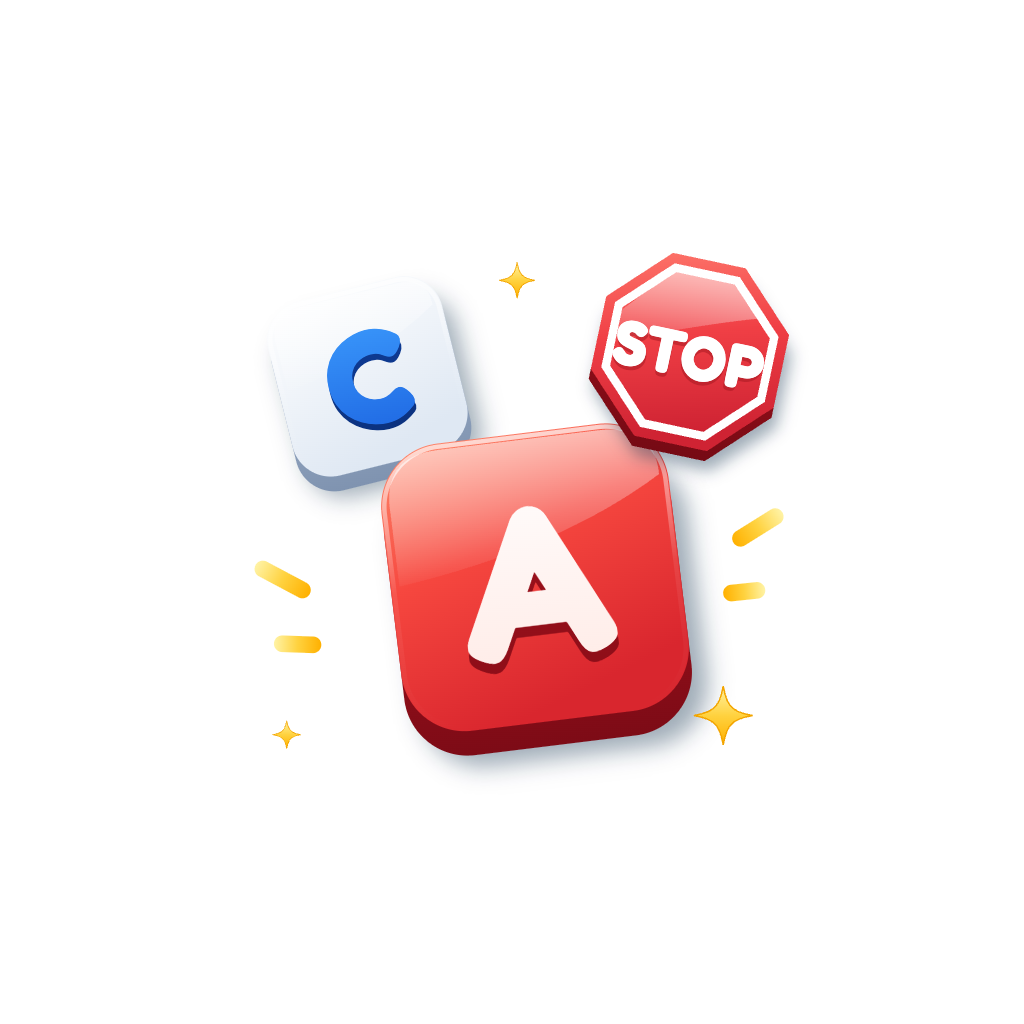
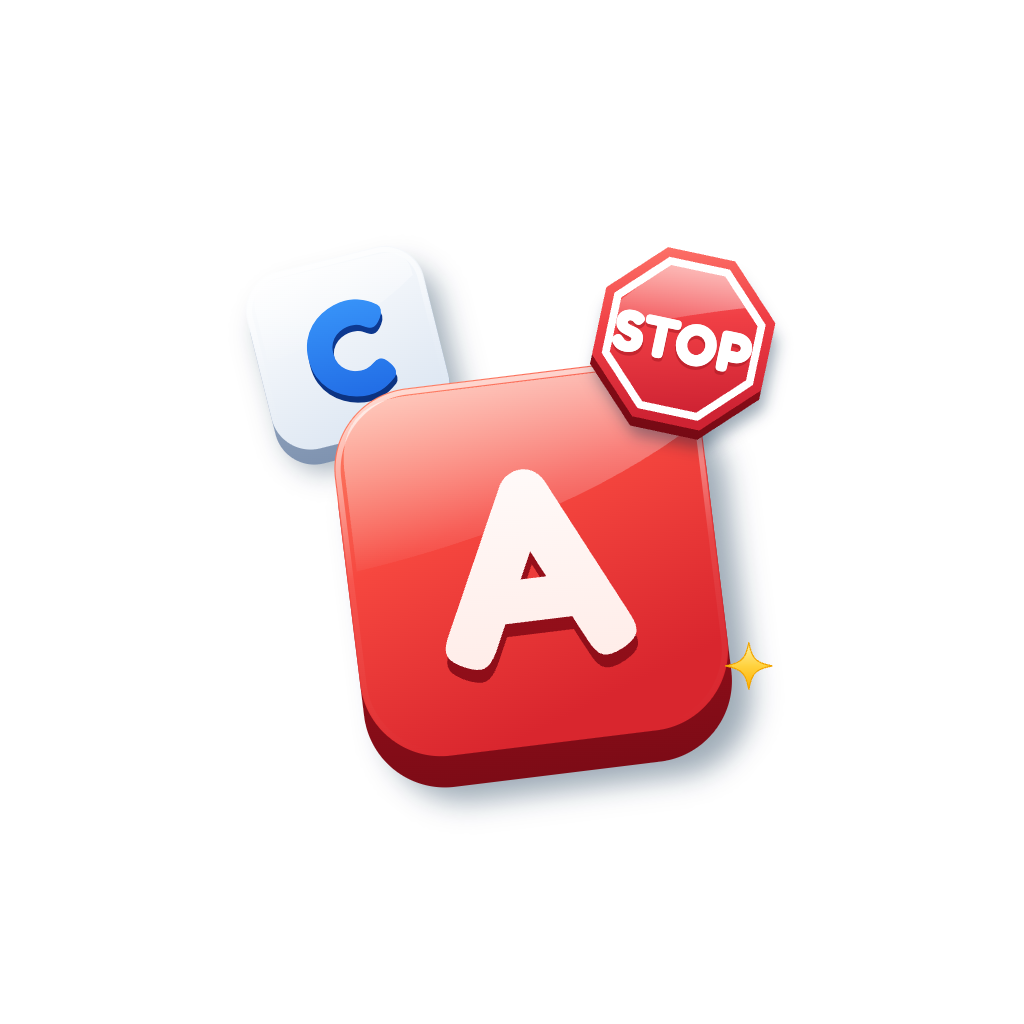
Android ikonu: sıkı yerleşim, harfler masaüstünde daha büyük ve belirgin

Changed region(s): [[0.25, 0.2188, 0.7812, 0.8125], [0.5, 0.25, 0.5312, 0.2812], [0.25, 0.4062, 0.2812, 0.4375]]

diff --git a/CLAUDE.md b/CLAUDE.md
@@ -18,7 +18,9 @@
     Ayrıntılar ve mağaza adımları: `IOS.md`, `store/app-store-1.0.1.md`.
   - uygulama ikonu: `npx tsx scripts/make-icons.mts && npx capacitor-assets generate --android --iconBackgroundColor '#16a6c4' --splashBackgroundColor '#cfeee6'`
     (25 Eki 2026'dan beri: parlak 3B kırmızı "A" kutusu + arkada beyaz "C" kutusu + derinlikli STOP tabelası, kodla çizilir.
-    Fredoka'nın B ve Ş harfleri küçük boyutta bozuk okunuyor, kullanma.) `capacitor-assets` AndroidManifest.xml'i yeniden
+    Fredoka'nın B ve Ş harfleri küçük boyutta bozuk okunuyor, kullanma.) Android uyarlanabilir ikon (`fg`) ve maskable
+    **sıkı yerleşim** kullanır (`art(true)`: ışık çizgisi yok, C/STOP A'ya yakın, ölçek 0.74): telefon ön planın yalnız
+    ortadaki ~%67'sini daire/damla maskeyle gösterdiği için geniş yerleşimde harfler masaüstünde küçük kalıyordu. `capacitor-assets` AndroidManifest.xml'i yeniden
     biçimlendiriyor, `git checkout` ile geri al. Açılış simgesi `res/drawable-*/splash_icon.png` ayrıca
     `assets/icon-foreground.png`'den 288-1152 px küçültülür (sharp ile).
   - uygulama içi simgeler: `src/art/icons.ts` (Çizio'nun el çizimi simge dili; emoji kullanılmaz)
